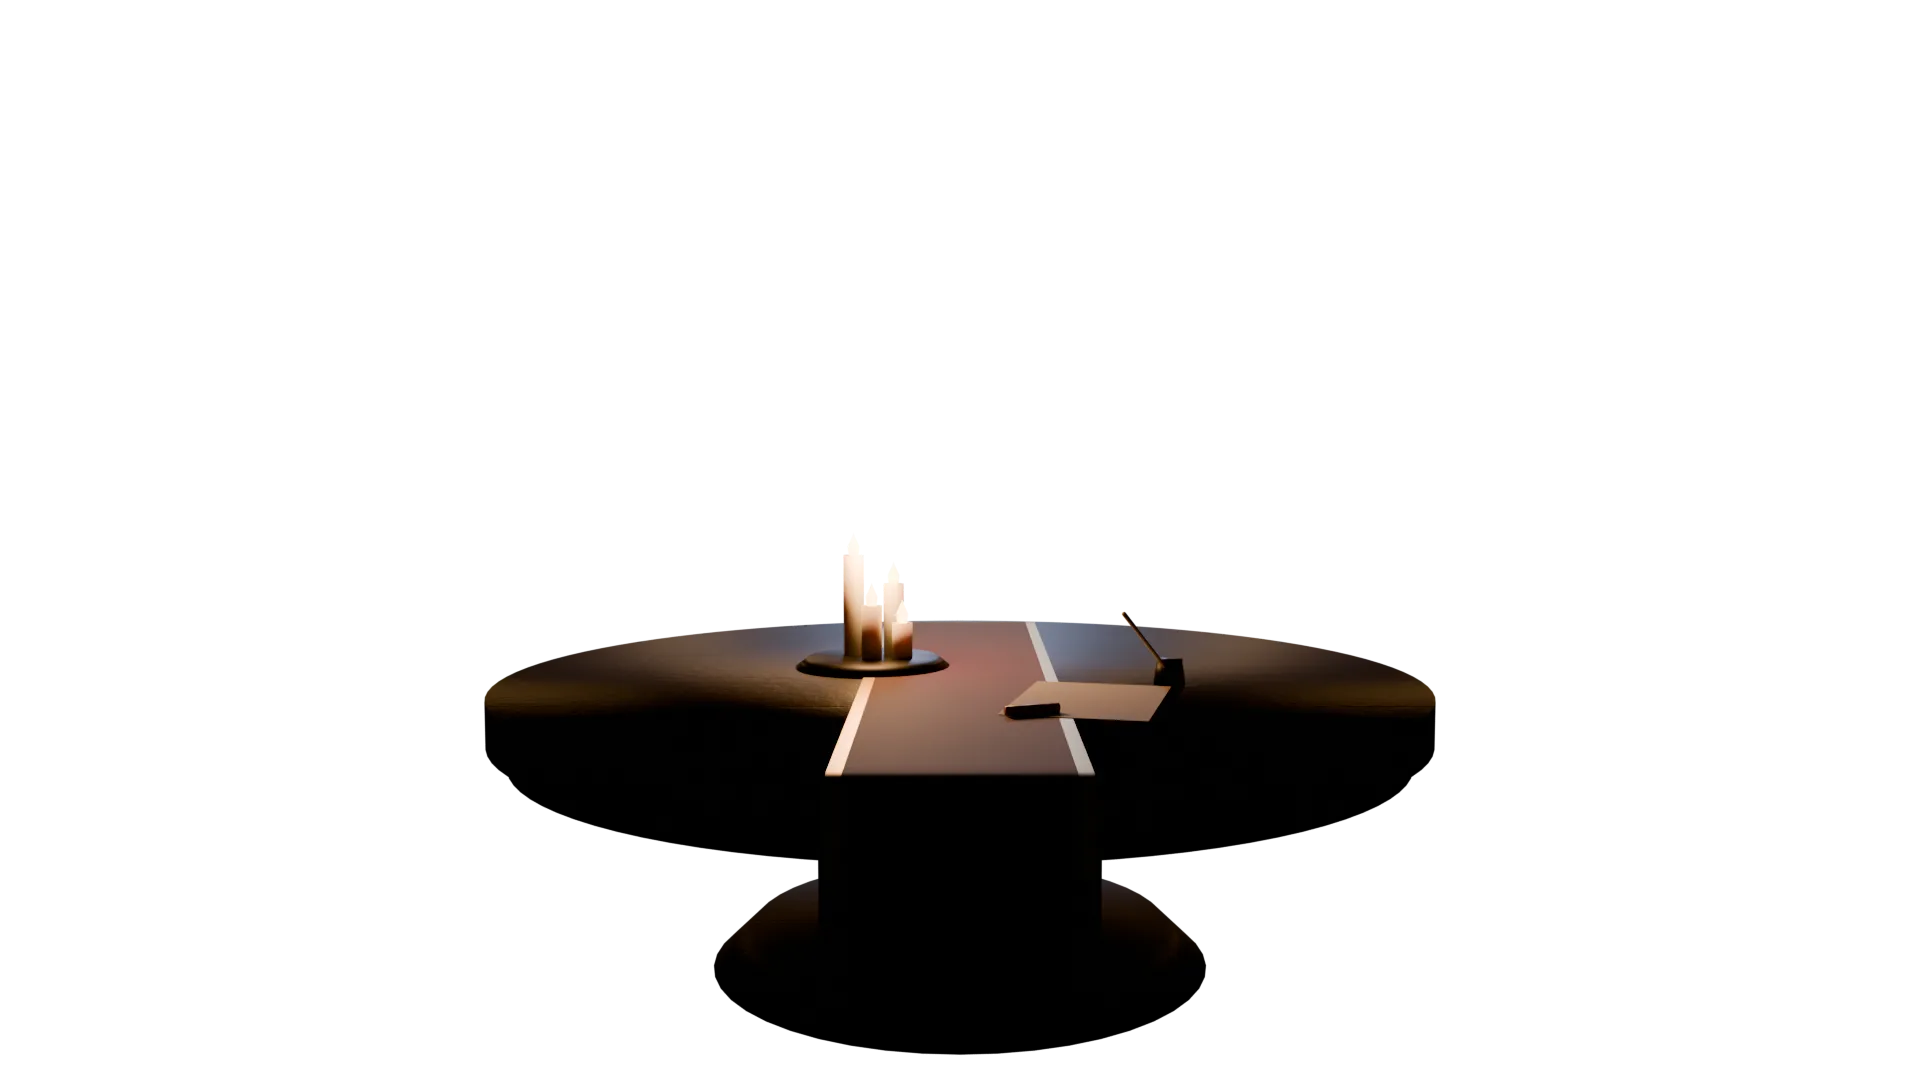
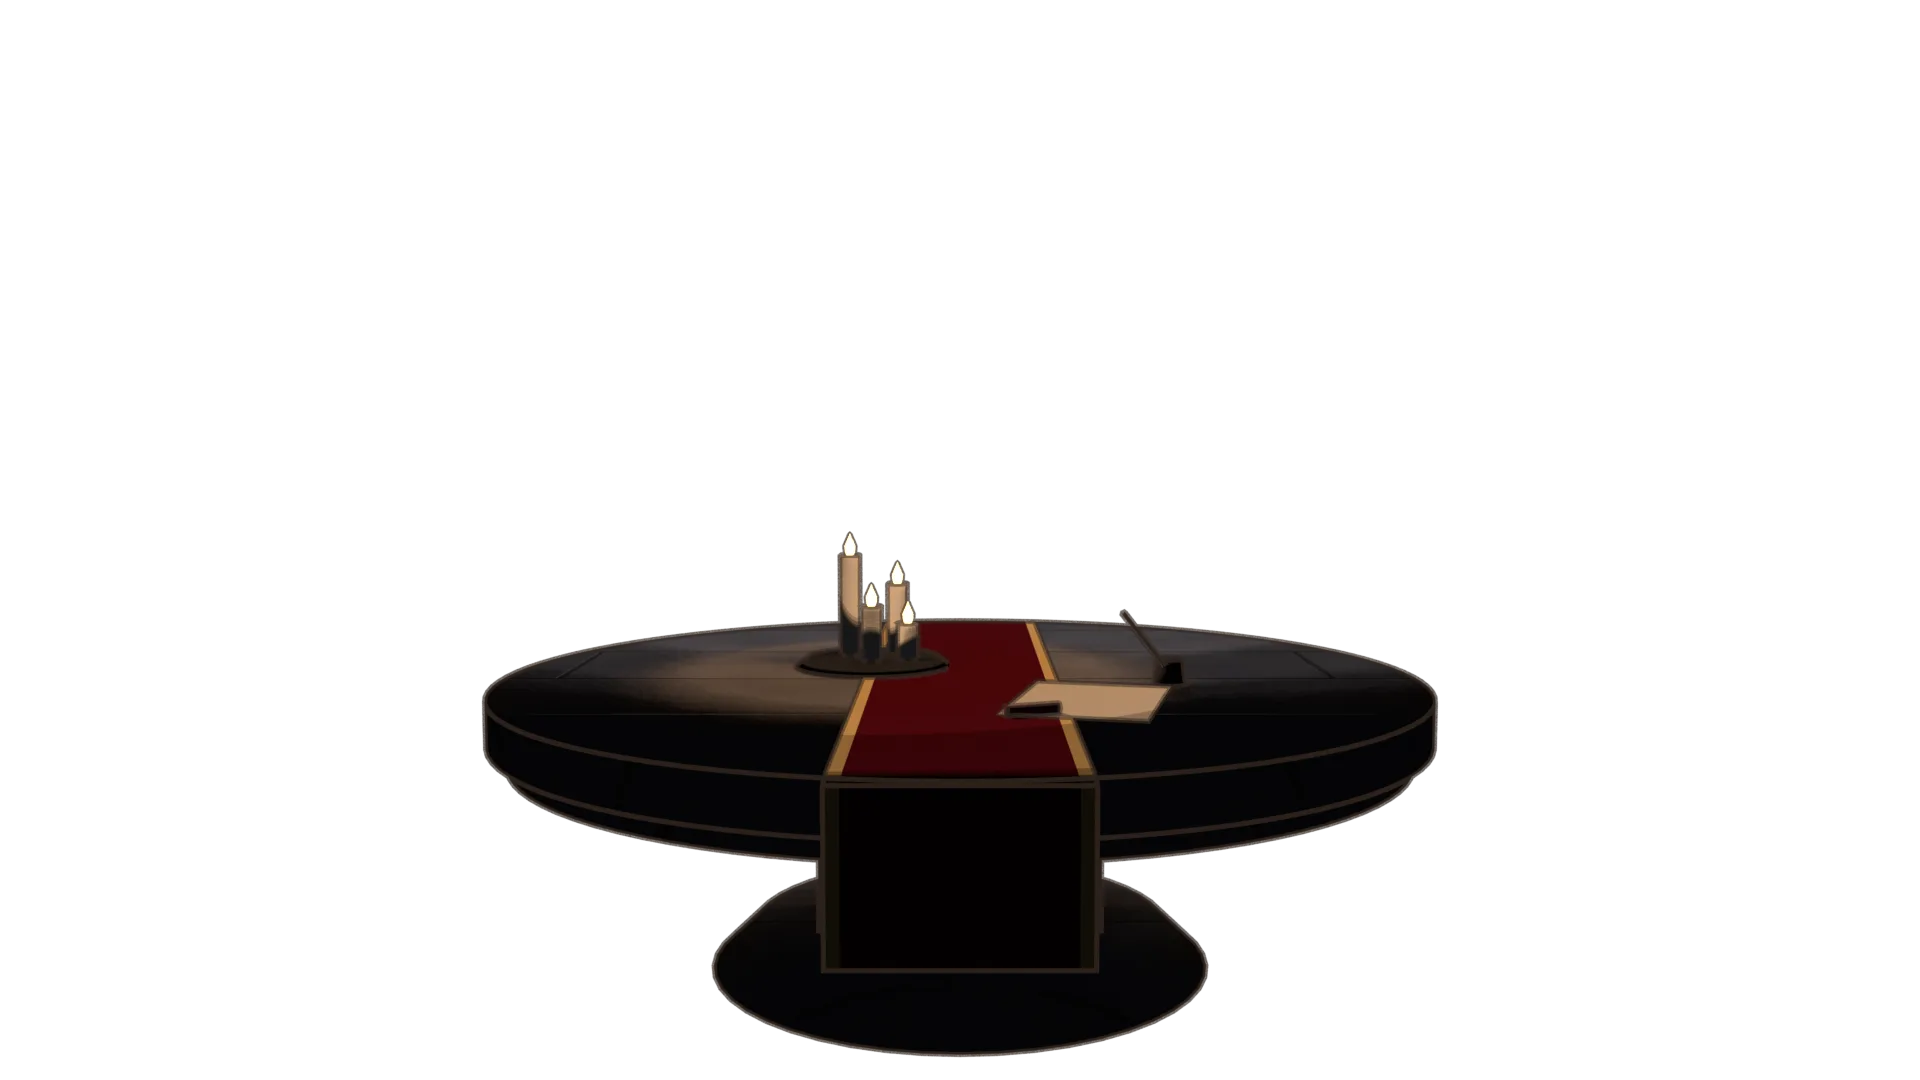
feat(traitors): the rendered sets are illustrated, not photographic
"The round table looks a little too real" - and so did the rest, next to
the cartoon portraits. tools/blender/traitors-toon.py turns any built set
into an illustrated one, and every set script now runs it before
rendering:

- every Principled BSDF becomes cel-shaded: the light on the surface
  (Shader to RGB) is split into hue, saturation and value, the value is
  cut into five flat bands keyed to the real light level (so a candlelit
  room stays dark), and the result multiplies the surface colour; the
  light keeps its tint, the glossy reflections go, emission stays on top
- ink lines (Freestyle): silhouettes, creases and borders in dark brown
- EEVEE instead of Cycles, which also takes a render from minutes to
  seconds

The conclave table's stone is lighter so it reads under the bands; the
castle front renders at exposure -1.6 so it is night again, the house in
shadow and the windows doing the work. All four plates re-rendered.

diff --git a/tools/blender/traitors-toon.py b/tools/blender/traitors-toon.py
@@ -1,0 +1,128 @@
+"""The illustrated look for every Traitors set (2026-10-02).
+
+The first renders were Cycles and photographic, and next to the cartoon
+portraits they read as "a little too real" (the user). Every set script runs
+this after building its scene and before rendering:
+
+    exec(open(".../tools/blender/traitors-toon.py").read()); toonify(scene)
+
+What it does:
+- Every Principled BSDF is replaced by a cel-shaded equivalent: the light
+  falling on the surface (Shader to RGB, EEVEE only) is split into hue,
+  saturation and value, the VALUE is cut into a few flat bands, and the
+  result is multiplied by the surface's own colour. The light keeps its tint
+  (warm candle, cool moon); the glossy reflections go.
+- Emission is kept on top, so windows, flames and the lattice still glow.
+- Pure emission and volume materials are left alone.
+- Ink lines (Freestyle): silhouettes, creases and borders in dark brown.
+- The engine becomes EEVEE.
+
+Idempotent: a material already converted carries a node labelled TOON.
+"""
+import bpy
+
+# (light level from, shade): flat steps keyed to the REAL light level, so a
+# candlelit room stays dark and only the pools of light reach the top bands
+BANDS = ((0.0, 0.02), (0.025, 0.09), (0.09, 0.26), (0.3, 0.55), (0.75, 0.95))
+INK = (0.045, 0.028, 0.02)
+
+
+def _toon_for(nt, pr):
+    """build the cel-shaded replacement for one Principled node; returns its output socket"""
+    N, L = nt.nodes, nt.links
+    x, y = pr.location
+    dif = N.new('ShaderNodeBsdfDiffuse'); dif.location = (x, y - 300)
+    dif.inputs['Color'].default_value = (1, 1, 1, 1)
+    if pr.inputs['Normal'].links:
+        L.new(pr.inputs['Normal'].links[0].from_socket, dif.inputs['Normal'])
+    s2r = N.new('ShaderNodeShaderToRGB'); s2r.location = (x + 200, y - 300)
+    L.new(dif.outputs['BSDF'], s2r.inputs['Shader'])
+    sep = N.new('ShaderNodeSeparateColor'); sep.mode = 'HSV'; sep.location = (x + 400, y - 300)
+    L.new(s2r.outputs['Color'], sep.inputs['Color'])
+    ramp = N.new('ShaderNodeValToRGB'); ramp.location = (x + 600, y - 400)
+    ramp.color_ramp.interpolation = 'CONSTANT'
+    els = ramp.color_ramp.elements
+    els[0].position = BANDS[0][0]; els[0].color = (BANDS[0][1],) * 3 + (1,)
+    els[1].position = BANDS[-1][0]; els[1].color = (BANDS[-1][1],) * 3 + (1,)
+    for pos, shade in BANDS[1:-1]:
+        e = els.new(pos); e.color = (shade,) * 3 + (1,)
+    # value goes in compressed: lights are bright, the bands are about the shape of the light
+    L.new(sep.outputs['Blue'], ramp.inputs['Fac'])
+    comb = N.new('ShaderNodeCombineColor'); comb.mode = 'HSV'; comb.location = (x + 900, y - 300)
+    L.new(sep.outputs['Red'], comb.inputs['Red'])
+    sat = N.new('ShaderNodeMath'); sat.operation = 'MULTIPLY'; sat.inputs[1].default_value = 0.7; sat.location = (x + 800, y - 200)
+    L.new(sep.outputs['Green'], sat.inputs[0]); L.new(sat.outputs[0], comb.inputs['Green'])
+    # the band, scaled back to the light's real strength so a dim room stays dim
+    lum = N.new('ShaderNodeMath'); lum.operation = 'MINIMUM'; lum.inputs[1].default_value = 1.0; lum.location = (x + 600, y - 550)
+    L.new(sep.outputs['Blue'], lum.inputs[0])
+    gain = N.new('ShaderNodeMath'); gain.operation = 'MULTIPLY'; gain.location = (x + 800, y - 500)
+    L.new(ramp.outputs['Color'], gain.inputs[0]); gain.inputs[1].default_value = 1.0
+    L.new(gain.outputs[0], comb.inputs['Blue'])
+    # times the surface colour
+    mul = N.new('ShaderNodeMix'); mul.data_type = 'RGBA'; mul.blend_type = 'MULTIPLY'; mul.location = (x + 1100, y - 200)
+    mul.inputs['Factor'].default_value = 1.0
+    if pr.inputs['Base Color'].links:
+        L.new(pr.inputs['Base Color'].links[0].from_socket, mul.inputs[6])
+    else:
+        mul.inputs[6].default_value = pr.inputs['Base Color'].default_value
+    L.new(comb.outputs['Color'], mul.inputs[7])
+    # plus whatever the surface emits of its own
+    em_strength = pr.inputs['Emission Strength'].default_value
+    color_out = mul.outputs[2]
+    if em_strength > 0 or pr.inputs['Emission Color'].links:
+        ec = N.new('ShaderNodeMix'); ec.data_type = 'RGBA'; ec.blend_type = 'MULTIPLY'; ec.location = (x + 1100, y - 450)
+        ec.inputs['Factor'].default_value = 1.0
+        if pr.inputs['Emission Color'].links:
+            L.new(pr.inputs['Emission Color'].links[0].from_socket, ec.inputs[6])
+        else:
+            ec.inputs[6].default_value = pr.inputs['Emission Color'].default_value
+        ec.inputs[7].default_value = (em_strength,) * 3 + (1,)
+        add = N.new('ShaderNodeMix'); add.data_type = 'RGBA'; add.blend_type = 'ADD'; add.location = (x + 1300, y - 300)
+        add.inputs['Factor'].default_value = 1.0
+        L.new(mul.outputs[2], add.inputs[6]); L.new(ec.outputs[2], add.inputs[7])
+        color_out = add.outputs[2]
+    em = N.new('ShaderNodeEmission'); em.location = (x + 1500, y - 300); em.label = 'TOON'
+    em.inputs['Strength'].default_value = 1.0
+    L.new(color_out, em.inputs['Color'])
+    return em.outputs['Emission']
+
+
+def toonify_material(m):
+    if not m or not m.use_nodes or not m.node_tree: return
+    nt = m.node_tree
+    if any(n.label == 'TOON' for n in nt.nodes): return
+    prs = [n for n in nt.nodes if n.type == 'BSDF_PRINCIPLED']
+    for pr in prs:
+        out = _toon_for(nt, pr)
+        for to in [l.to_socket for l in pr.outputs['BSDF'].links]:
+            nt.links.new(out, to)          # an input takes one link: this replaces the old one
+    if prs:
+        mark = nt.nodes.new('NodeFrame'); mark.label = 'TOON'
+
+
+def toonify(sc, ink=2.2, exposure=None):
+    mats = set()
+    for ob in sc.collection.all_objects:
+        if ob.type == 'MESH':
+            for slot in ob.material_slots:
+                if slot.material: mats.add(slot.material)
+    for m in mats: toonify_material(m)
+    sc.render.engine = 'BLENDER_EEVEE'
+    for attr, val in (('taa_render_samples', 64), ('volumetric_tile_size', '4'), ('volumetric_samples', 96),
+                      ('use_volumetric_shadows', True), ('volumetric_end', 120.0)):
+        try: setattr(sc.eevee, attr, val)
+        except Exception: pass
+    sc.view_settings.view_transform = 'Standard'; sc.view_settings.look = 'None'
+    if exposure is not None: sc.view_settings.exposure = exposure
+    # ink
+    sc.render.use_freestyle = True
+    sc.render.line_thickness_mode = 'ABSOLUTE'; sc.render.line_thickness = ink
+    vl = sc.view_layers[0]; vl.use_freestyle = True
+    fs = vl.freestyle_settings
+    fs.crease_angle = 2.35   # ~135 degrees
+    ls = fs.linesets[0] if fs.linesets else fs.linesets.new("trs_ink")
+    ls.select_by_visibility = True; ls.select_by_edge_types = True
+    ls.select_silhouette = True; ls.select_border = True; ls.select_crease = True
+    ls.select_external_contour = True
+    sty = ls.linestyle
+    sty.color = INK; sty.thickness = ink; sty.alpha = 0.85

diff --git a/tools/blender/traitors-conclave.py b/tools/blender/traitors-conclave.py
@@ -141,7 +141,7 @@ def cloth(name, red, sheen):
 stone("trc_wall", (0.19, 0.17, 0.15), (0.11, 0.10, 0.09), (0.05, 0.045, 0.04), 0.88, 0.95, 0.42, 0.7, mortar_size=0.018)
 stone("trc_floor", (0.075, 0.068, 0.062), (0.05, 0.046, 0.042), (0.03, 0.028, 0.026), 0.45, 0.95, 0.72, 0.5)
 stone("trc_dressed", (0.20, 0.185, 0.165), (0.144, 0.13, 0.112), (0.07, 0.065, 0.06), 0.7, 0.9, 0.45, 0.3)
-stone("trc_tdress", (0.085, 0.077, 0.07), (0.06, 0.055, 0.05), (0.07, 0.065, 0.06), 0.5, 2.5, 0.6, 0.3)
+stone("trc_tdress", (0.2, 0.18, 0.16), (0.15, 0.135, 0.12), (0.09, 0.08, 0.07), 0.5, 2.5, 0.6, 0.3)   # light enough to read as stone under the cel bands
 simple("trc_iron", (0.03, 0.028, 0.026), 0.45, metal=0.9)
 simple("trc_gold", (0.6, 0.38, 0.12), 0.35, metal=1.0)
 simple("trc_wax", (0.85, 0.78, 0.62), 0.45, sss=0.5)
@@ -443,5 +443,14 @@ def render_plates():
     for o in room: o.hide_render = False; o.is_holdout = False
     sc.render.film_transparent = False; sc.render.image_settings.color_mode = 'RGB'
 
+
+# ── the illustrated look (tools/blender/traitors-toon.py), before any render ──
+def apply_toon(exposure=None):
+    repo = os.path.dirname(os.path.dirname(os.path.dirname(os.path.normpath(OUT))))
+    g = {}
+    exec(open(os.path.join(repo, "tools", "blender", "traitors-toon.py"), encoding="utf-8").read(), g)
+    g["toonify"](sc, exposure=exposure)
+
 if os.path.isdir(OUT):
+    apply_toon()
     render_plates()

diff --git a/tools/blender/traitors-facade.py b/tools/blender/traitors-facade.py
@@ -381,6 +381,15 @@ sc.view_settings.view_transform = 'AgX'; sc.view_settings.look = 'AgX - Punchy';
 sc.render.image_settings.file_format = 'WEBP'; sc.render.image_settings.quality = 82
 sc.render.film_transparent = False; sc.render.image_settings.color_mode = 'RGB'
 
+
+# ── the illustrated look (tools/blender/traitors-toon.py), before any render ──
+def apply_toon(exposure=None):
+    repo = os.path.dirname(os.path.dirname(os.path.dirname(os.path.normpath(OUT))))
+    g = {}
+    exec(open(os.path.join(repo, "tools", "blender", "traitors-toon.py"), encoding="utf-8").read(), g)
+    g["toonify"](sc, exposure=exposure)
+
 if os.path.isdir(OUT) and RENDER:
+    apply_toon(exposure=-1.6)   # night: the house in shadow, the windows doing the work
     sc.render.filepath = os.path.join(OUT, "facade.webp")
     bpy.ops.render.render(write_still=True, scene=sc.name)

diff --git a/tools/blender/traitors-roundtable.py b/tools/blender/traitors-roundtable.py
@@ -293,6 +293,15 @@ sc.view_settings.view_transform = 'AgX'; sc.view_settings.look = 'AgX - Punchy';
 sc.render.image_settings.file_format = 'WEBP'; sc.render.image_settings.quality = 82
 sc.render.film_transparent = False; sc.render.image_settings.color_mode = 'RGB'
 
+
+# ── the illustrated look (tools/blender/traitors-toon.py), before any render ──
+def apply_toon(exposure=None):
+    repo = os.path.dirname(os.path.dirname(os.path.dirname(os.path.normpath(OUT))))
+    g = {}
+    exec(open(os.path.join(repo, "tools", "blender", "traitors-toon.py"), encoding="utf-8").read(), g)
+    g["toonify"](sc, exposure=exposure)
+
 if os.path.isdir(OUT) and RENDER:
+    apply_toon()
     sc.render.filepath = os.path.join(OUT, "roundtable.webp")
     bpy.ops.render.render(write_still=True, scene=sc.name)
